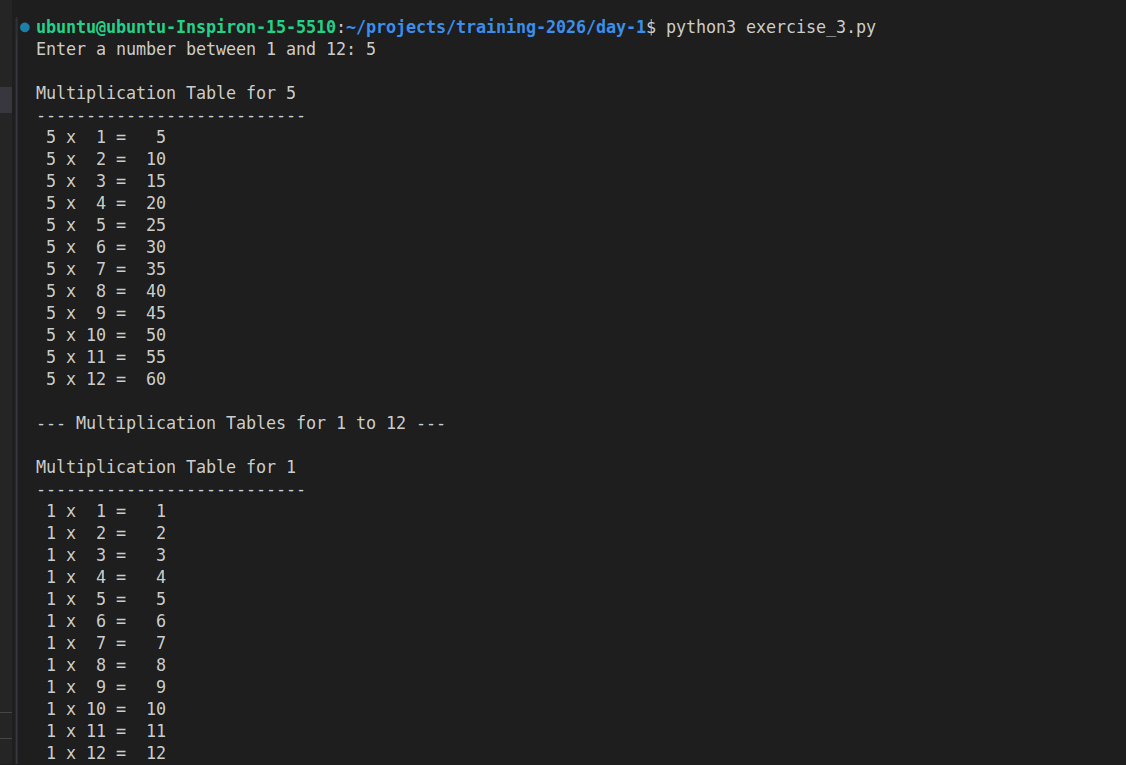
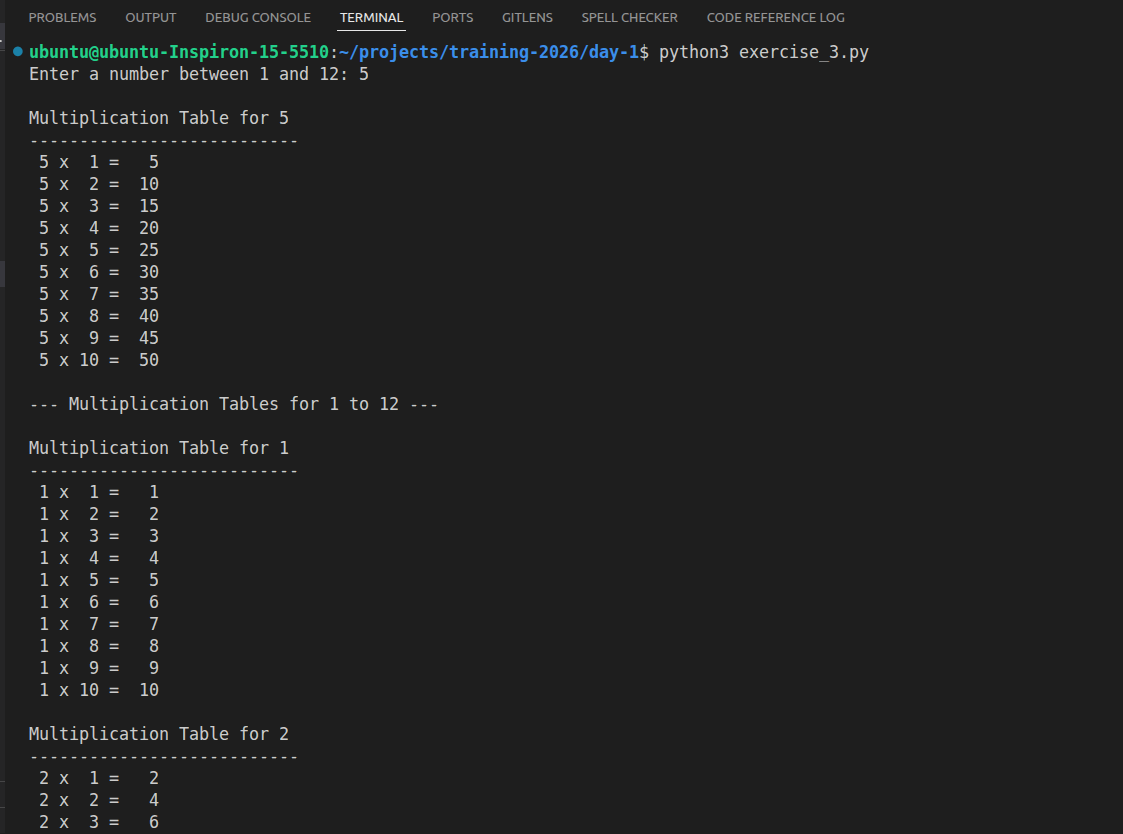
Day-3: Fix old tweaks

Changed region(s): [[0.0, 0.0, 0.7792, 0.9922], [0.3117, 0.481, 0.3428, 0.5111]]

diff --git a/day-2/exercise_2.py b/day-2/exercise_2.py
@@ -1,10 +1,11 @@
 # Random data for 5 students
 students = [
     {"name": "Alice", "scores": [85, 92, 78], "subject": "Math"},
-    {"name": "Bob", "scores": [72, 68, 74], "subject": "Science"},
+    {"name": "Bob", "scores": [72, 68, 74], "subject": "Chemistry"},
     {"name": "Charlie", "scores": [95, 90, 93], "subject": "English"},
     {"name": "David", "scores": [60, 65, 58], "subject": "Math"},
-    {"name": "Eva", "scores": [88, 84, 91], "subject": "Science"}
+    {"name": "Eva", "scores": [88, 84, 91], "subject": "Physics"},
+    {"name": "Josh", "scores": [23, 15, 16], "subject": "Computer"}
 ]
 
 # Function: calculate average

diff --git a/day-1/exercise_2.py b/day-1/exercise_2.py
@@ -17,10 +17,10 @@ for i in range(num_scores):
 
 print("\n--- User Based Scores ---")
 for s in user_based_scores:
-    print(f"Score: {s} -> {grade_classifier(s)}")
+    print(f"Score: {s} -> {grade_classifier(score=s)}")
 
 
 scores = [45, 72, 91, 60, 38, 85]
 print("\n--- Given Scores ---")
-for s in scores:
-    print(f"Score: {s} -> {grade_classifier(s)}")
+for score in scores:
+    print(f"Score: {score} -> {grade_classifier(score=score)}") # Keyword argument passed to function for clarity

diff --git a/day-1/exercise_3.py b/day-1/exercise_3.py
@@ -1,7 +1,7 @@
 def print_table(n):
     print(f"\nMultiplication Table for {n}")
     print("-" * 27)
-    for i in range(1, 13):
+    for i in range(1, 11):
         # Right-align both numbers and result
         print(f"{n:2} x {i:2} = {n * i:3}")
 
